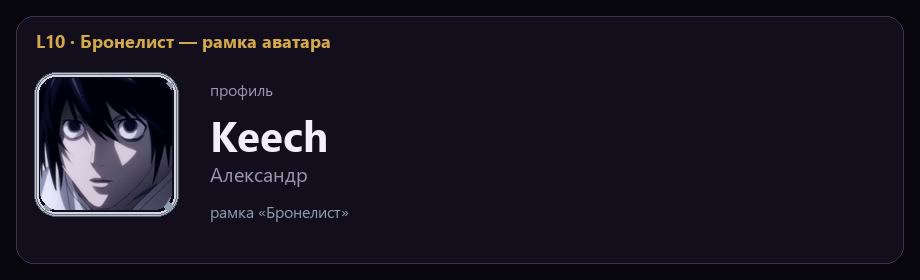
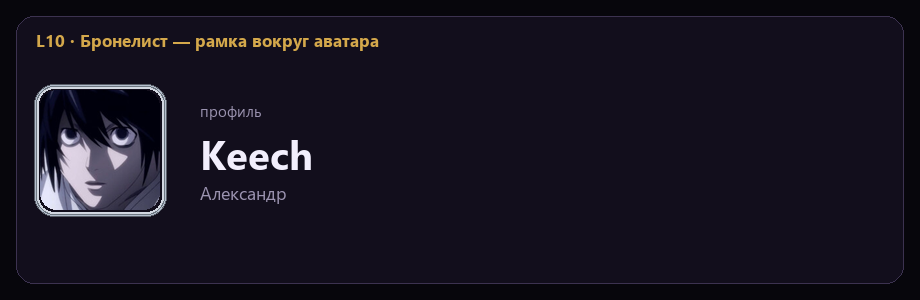
BP rewards: gold nick at L15, profile medal at L20, clearer L5 badge.

diff --git a/src/components/BpRewardMock.tsx b/src/components/BpRewardMock.tsx
@@ -33,33 +33,90 @@ function Avatar({
   );
 }
 
-function HeadText({
+function ProfileHeadMock({
   player,
   kind,
-  rewardName,
+  reward,
+  compact,
 }: {
   player: BpPreviewPlayer;
   kind: BpRewardKind;
-  rewardName: string;
+  reward: BpReward;
+  compact?: boolean;
 }) {
+  const goldNick = kind === "nick";
   return (
-    <div className="bp-mock-text">
-      <p className="bp-mock-eyebrow">профиль</p>
-      <div className="bp-mock-title-row">
-        <h3>{player.nick}</h3>
-        {kind === "title" ? (
-          <span className="bp-mock-title-award">{rewardName}</span>
+    <div className="bp-mock-row">
+      <div className="bp-mock-av-col">
+        <Avatar player={player} framed={kind === "frame"} />
+        {kind === "medal" ? (
+          <button
+            type="button"
+            className="bp-mock-medal"
+            title={reward.hover || reward.name}
+            aria-label={reward.hover || reward.name}
+          >
+            <span className="bp-mock-medal-face" aria-hidden>
+              ★
+            </span>
+            {!compact ? (
+              <span className="bp-mock-medal-tip" role="tooltip">
+                {reward.hover || reward.name}
+              </span>
+            ) : null}
+          </button>
         ) : null}
       </div>
-      {kind === "badge" ? (
-        <span className="bp-mock-badge">✦ {rewardName}</span>
-      ) : null}
-      {player.name ? <p className="bp-mock-name">{player.name}</p> : null}
+      <div className="bp-mock-text">
+        <p className="bp-mock-eyebrow">профиль</p>
+        <div className="bp-mock-title-row">
+          <h3 className={goldNick ? "bp-nick-gold" : undefined}>
+            {player.nick}
+          </h3>
+        </div>
+        {kind === "badge" ? (
+          <span className="bp-mock-badge" title={reward.preview}>
+            ✦ Искра
+          </span>
+        ) : null}
+        {player.name && !compact ? (
+          <p className="bp-mock-name">{player.name}</p>
+        ) : null}
+      </div>
     </div>
   );
 }
 
-/** Живой пример шапки профиля с наградой BP. */
+/** Пример строки рейтинга паблика с золотым ником (L15). */
+function RatingNickMock({
+  player,
+  compact,
+}: {
+  player: BpPreviewPlayer;
+  compact?: boolean;
+}) {
+  return (
+    <div className={`bp-mock-rating${compact ? " is-compact" : ""}`}>
+      {!compact ? (
+        <p className="bp-mock-rating-label">рейтинг паблика · ник</p>
+      ) : null}
+      <div className="bp-mock-rating-row">
+        <span className="bp-mock-rating-rank">5</span>
+        <span className="bp-mock-rating-badge">RADIANT I</span>
+        <span className="bp-mock-rating-rp">4091</span>
+        <span className="bp-mock-rating-tag">BB</span>
+        <span className="bp-nick-gold bp-mock-rating-nick">{player.nick}</span>
+      </div>
+      {!compact ? (
+        <p className="bp-mock-rating-hint">
+          Так же у всех, кто взял L15 — один золотой цвет ника
+        </p>
+      ) : null}
+    </div>
+  );
+}
+
+/** Живой пример, где висит награда. */
 export function BpRewardMock({
   reward,
   player,
@@ -75,22 +132,19 @@ export function BpRewardMock({
       className={`bp-mock kind-${kind}${compact ? " is-compact" : ""}`}
       aria-label={`Пример: ${reward.name}`}
     >
-      {kind === "banner" ? (
-        <div className="bp-mock-banner">
-          <span>◆ Гвардия прохода · PB1</span>
-        </div>
-      ) : null}
-      <div className="bp-mock-row">
-        <Avatar player={player} framed={kind === "frame"} />
-        <HeadText
+      {kind === "nick" ? (
+        <RatingNickMock player={player} compact={compact} />
+      ) : (
+        <ProfileHeadMock
           player={player}
           kind={kind}
-          rewardName={reward.name}
+          reward={reward}
+          compact={compact}
         />
-      </div>
+      )}
       {!compact ? (
         <p className="bp-mock-cap">
-          L{reward.level} · так будет в профиле
+          L{reward.level} · {reward.preview}
         </p>
       ) : null}
     </div>
@@ -109,8 +163,8 @@ export function BpRewardMockGallery({
   onPick?: (level: number) => void;
 }) {
   return (
-    <section className="bp-mock-gallery" aria-label="Примеры наград в профиле">
-      <h3>Как награды выглядят в профиле</h3>
+    <section className="bp-mock-gallery" aria-label="Примеры наград">
+      <h3>Где висят награды</h3>
       <div className="bp-mock-grid">
         {rewards.map((r) => (
           <button

diff --git a/src/app/globals.css b/src/app/globals.css
@@ -16895,22 +16895,146 @@ body:has(.profile-page) {
   margin-top: 0;
 }
 
-.bp-mock-banner {
-  padding: 5px 10px;
-  background: linear-gradient(90deg, rgba(60, 42, 12, 0.95), rgba(28, 20, 10, 0.9));
-  border-bottom: 1px solid rgba(212, 168, 75, 0.55);
-  font-family: var(--font-display);
-  font-size: 0.68rem;
-  letter-spacing: 0.08em;
-  text-transform: uppercase;
-  color: #e8d5a0;
+.bp-nick-gold {
+  color: #e8c56a !important;
+  text-shadow: 0 0 12px rgba(212, 168, 75, 0.35);
+  font-weight: 700;
 }
 
 .bp-mock-row {
   display: flex;
-  align-items: center;
+  align-items: flex-start;
   gap: 10px;
   padding: 10px;
+}
+
+.bp-mock-av-col {
+  flex: 0 0 auto;
+  display: flex;
+  flex-direction: column;
+  align-items: center;
+  gap: 8px;
+}
+
+.bp-mock-medal {
+  appearance: none;
+  position: relative;
+  width: 44px;
+  height: 44px;
+  border-radius: 50%;
+  border: 2px solid #c9a24a;
+  background:
+    radial-gradient(circle at 35% 30%, #f5e2a8, #b8860b 55%, #6b4e12 100%);
+  box-shadow:
+    0 0 0 2px rgba(40, 28, 10, 0.9),
+    0 4px 12px rgba(0, 0, 0, 0.45);
+  cursor: help;
+  color: #3a2a0a;
+  padding: 0;
+}
+
+.bp-mock.is-compact .bp-mock-medal {
+  width: 28px;
+  height: 28px;
+}
+
+.bp-mock-medal-face {
+  display: grid;
+  place-items: center;
+  width: 100%;
+  height: 100%;
+  font-size: 1.1rem;
+  line-height: 1;
+  font-weight: 700;
+}
+
+.bp-mock.is-compact .bp-mock-medal-face {
+  font-size: 0.75rem;
+}
+
+.bp-mock-medal-tip {
+  display: none;
+  position: absolute;
+  left: 50%;
+  bottom: calc(100% + 8px);
+  transform: translateX(-50%);
+  width: max-content;
+  max-width: 240px;
+  padding: 8px 10px;
+  border-radius: 8px;
+  border: 1px solid rgba(212, 168, 75, 0.55);
+  background: rgba(16, 12, 8, 0.96);
+  color: #f0e6c8;
+  font-size: 0.72rem;
+  line-height: 1.35;
+  z-index: 5;
+  pointer-events: none;
+  white-space: normal;
+  text-align: center;
+}
+
+.bp-mock-medal:hover .bp-mock-medal-tip,
+.bp-mock-medal:focus-visible .bp-mock-medal-tip {
+  display: block;
+}
+
+.bp-mock-rating {
+  padding: 10px;
+}
+
+.bp-mock-rating-label {
+  margin: 0 0 6px;
+  font-size: 0.62rem;
+  letter-spacing: 0.1em;
+  text-transform: uppercase;
+  color: var(--muted);
+}
+
+.bp-mock-rating-row {
+  display: flex;
+  align-items: center;
+  gap: 8px;
+  flex-wrap: wrap;
+  padding: 8px 10px;
+  border-radius: 8px;
+  background: rgba(0, 0, 0, 0.35);
+  border: 1px solid rgba(167, 139, 250, 0.2);
+  font-size: 0.82rem;
+}
+
+.bp-mock-rating-rank {
+  color: var(--muted);
+  width: 1.2rem;
+}
+
+.bp-mock-rating-badge {
+  font-family: var(--font-display);
+  font-size: 0.68rem;
+  padding: 2px 6px;
+  border-radius: 4px;
+  border: 1px solid rgba(212, 168, 75, 0.7);
+  color: #e8c56a;
+}
+
+.bp-mock-rating-rp {
+  font-variant-numeric: tabular-nums;
+  color: var(--muted);
+}
+
+.bp-mock-rating-tag {
+  color: var(--muted);
+  font-size: 0.75rem;
+}
+
+.bp-mock-rating-nick {
+  font-family: var(--font-display);
+  font-size: 0.95rem;
+}
+
+.bp-mock-rating-hint {
+  margin: 8px 0 0;
+  font-size: 0.72rem;
+  color: var(--muted);
 }
 
 .bp-mock-av-wrap {
@@ -16998,15 +17122,6 @@ body:has(.profile-page) {
 
 .bp-mock.is-compact .bp-mock-title-row h3 {
   font-size: 0.88rem;
-}
-
-.bp-mock-title-award {
-  font-family: var(--font-display);
-  font-size: 0.72rem;
-  color: #e8d5a0;
-  letter-spacing: 0.02em;
-  padding: 1px 0;
-  border-bottom: 1px solid rgba(212, 168, 75, 0.7);
 }
 
 .bp-mock-badge {

diff --git a/src/lib/battlePass.ts b/src/lib/battlePass.ts
@@ -14,7 +14,7 @@ export const BP_SEASON = {
   note: "Подсчёт прогресса пока выключен — смотрим вёрстку и задания.",
 } as const;
 
-export type BpRewardKind = "badge" | "frame" | "banner" | "title";
+export type BpRewardKind = "badge" | "frame" | "nick" | "medal";
 
 export type BpReward = {
   level: number;
@@ -22,8 +22,10 @@ export type BpReward = {
   name: string;
   short: string;
   kind: BpRewardKind;
-  /** Как выглядит в профиле / превью */
+  /** Как выглядит / где висит */
   preview: string;
+  /** Текст при наведении (медаль и т.п.) */
+  hover?: string;
 };
 
 export type BpLevel = {
@@ -37,7 +39,7 @@ export type BpLevel = {
   unit: string;
 };
 
-/** Награды каждые 5 уровней. L20 — титул в профиль. */
+/** Награды каждые 5 уровней. */
 export const BP_REWARDS: BpReward[] = [
   {
     level: 5,
@@ -45,7 +47,8 @@ export const BP_REWARDS: BpReward[] = [
     name: "Искра разведки",
     short: "Значок",
     kind: "badge",
-    preview: "Малый значок под ником · «Искра»",
+    preview:
+      "В шапке профиля, сразу под ником — маленький золотой значок «Искра»",
   },
   {
     level: 10,
@@ -53,23 +56,27 @@ export const BP_REWARDS: BpReward[] = [
     name: "Бронелист",
     short: "Рамка",
     kind: "frame",
-    preview: "Металлическая рамка аватара",
+    preview: "Металлическая рамка вокруг аватара в профиле",
   },
   {
     level: 15,
-    id: "pb1-guard-banner",
-    name: "Гвардия прохода",
-    short: "Баннер",
-    kind: "banner",
-    preview: "Полоса-баннер над карточкой профиля",
+    id: "pb1-gold-nick",
+    name: "Золотой ник",
+    short: "Цвет ника",
+    kind: "nick",
+    preview:
+      "Ник цветом Battle Pass (золото) в рейтинге паблика и везде на сайте — у всех с этой наградой одинаково",
   },
   {
     level: 20,
     id: "pb1-best-tester",
     name: "Лучший тестировщик",
-    short: "Титул",
-    kind: "title",
-    preview: "Титул в профиле · сезон PB1",
+    short: "Медаль",
+    kind: "medal",
+    preview:
+      "Медаль слева в профиле под аватаром; наведение — за что выдана",
+    hover:
+      "Лучший тестировщик · Battle Pass PB1 · дошёл до 20 уровня (18–31.10.2026)",
   },
 ];
 
